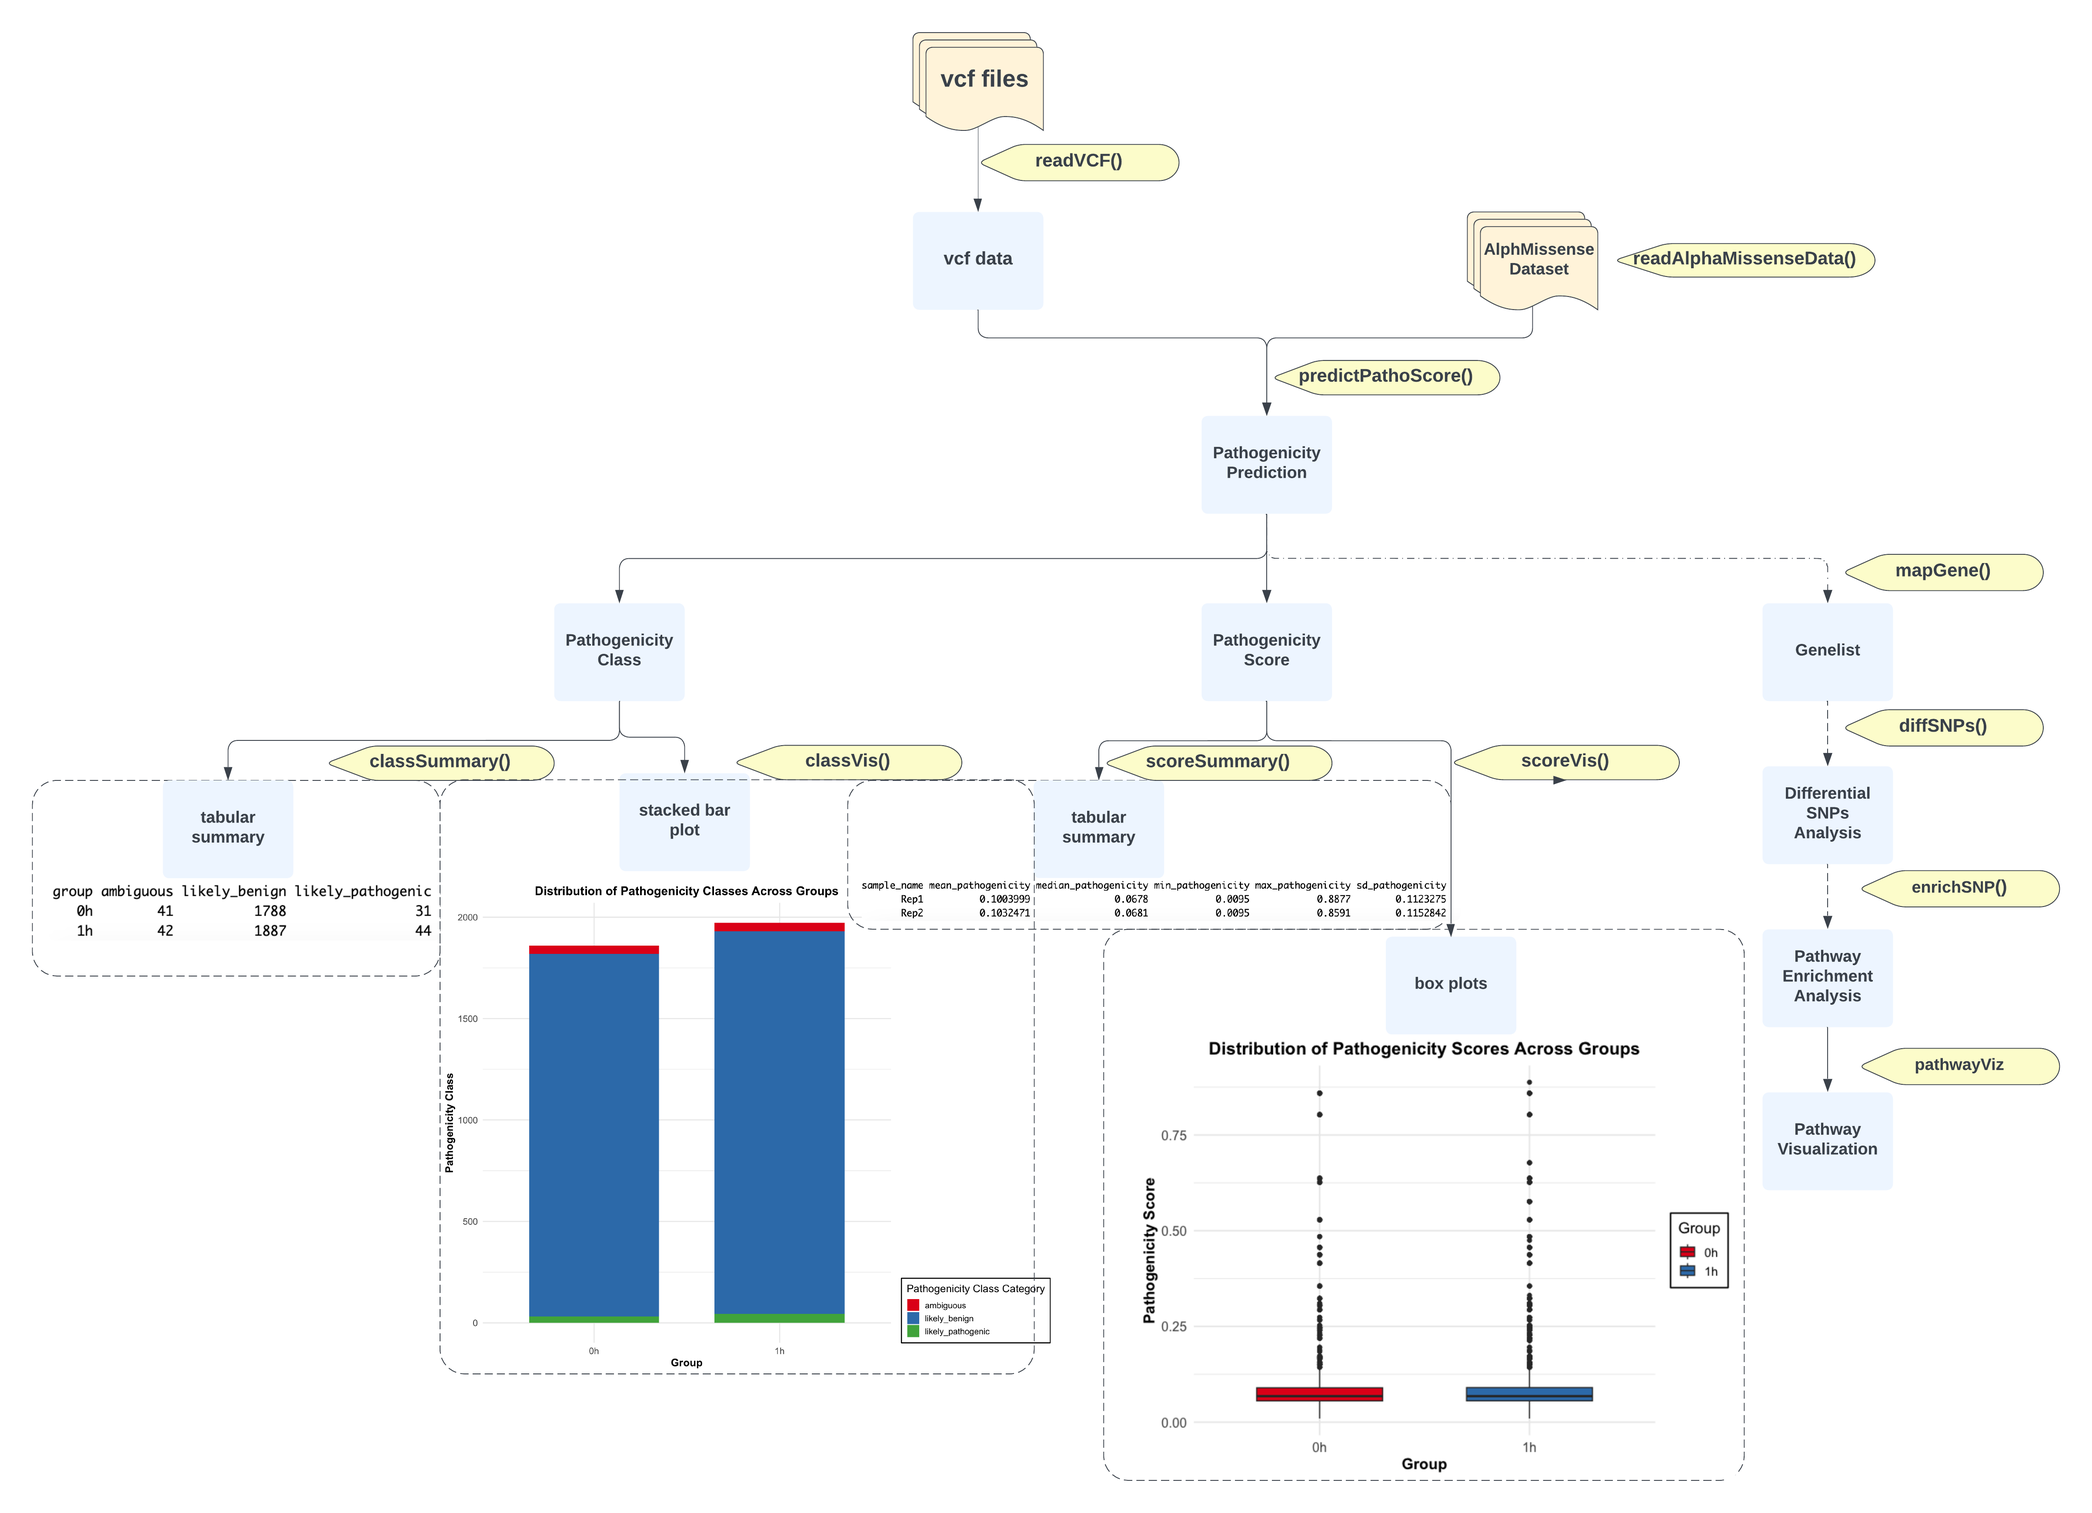
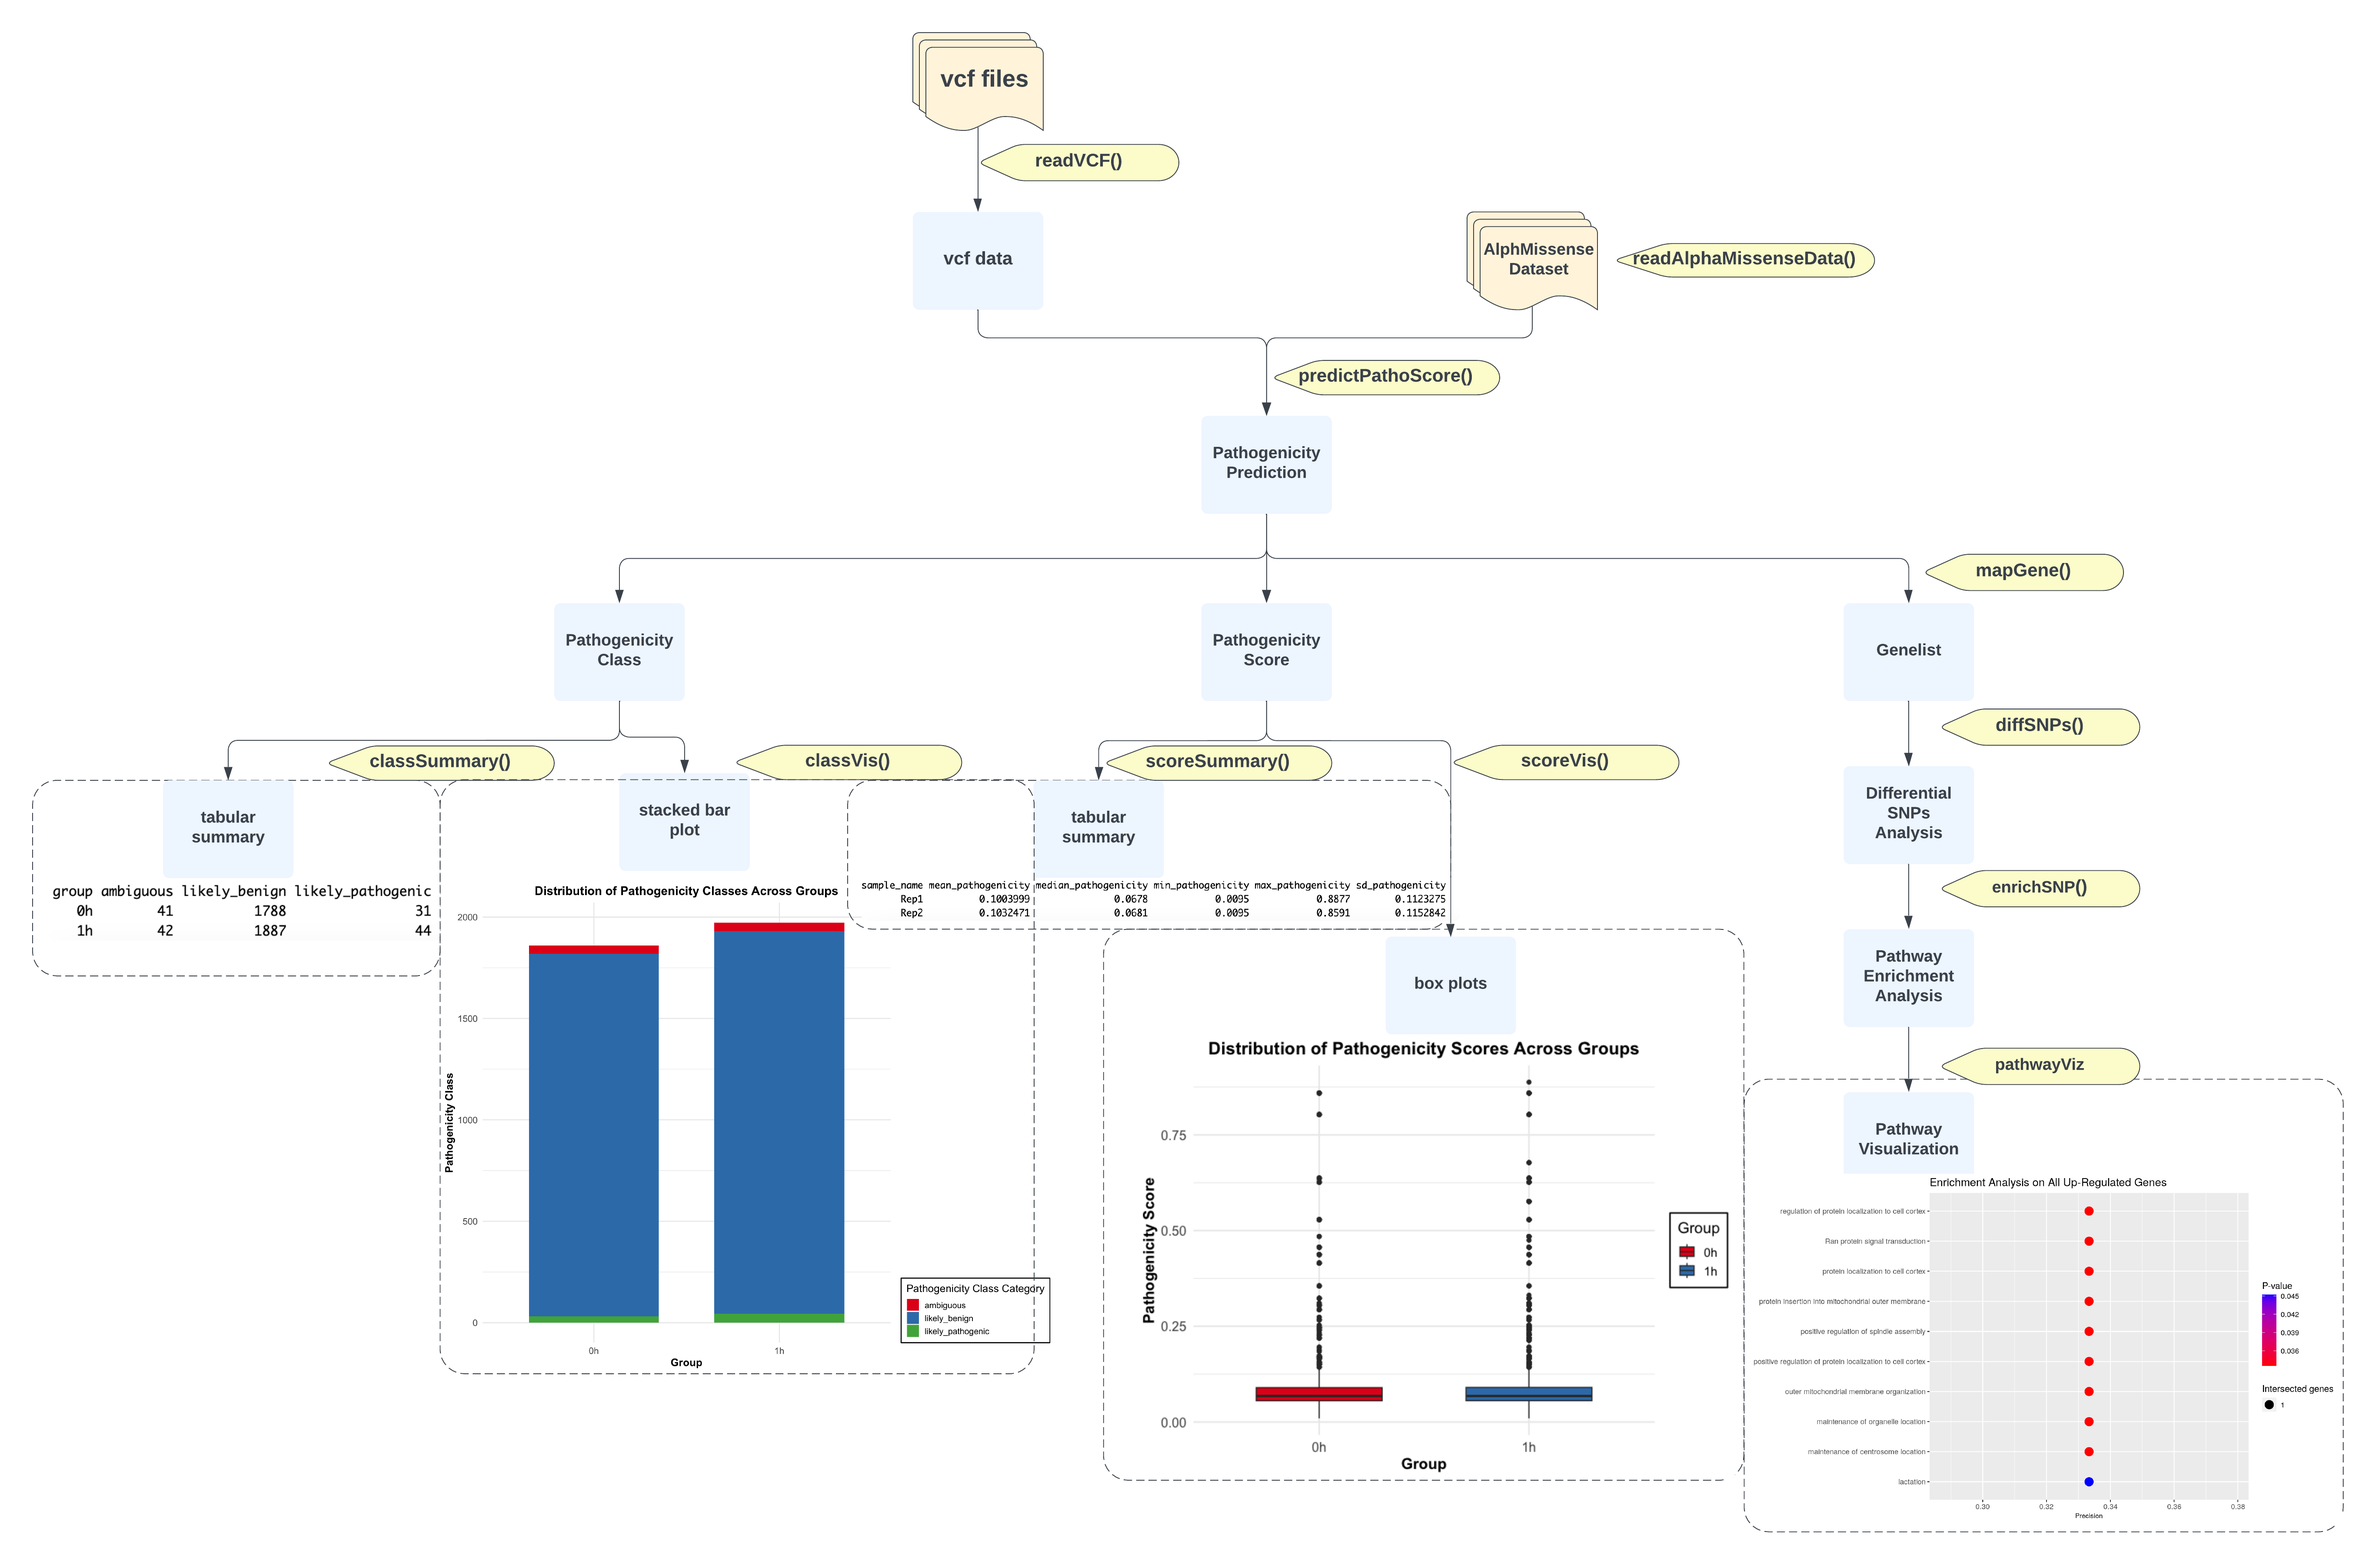
shiny app completed, final submission for A5

diff --git a/README.md b/README.md
@@ -52,7 +52,11 @@ devtools::install_github("Lola-W/MissensePathoR", build_vignettes = TRUE)
 library("MissensePathoR")
 ```
 
-Shiny app underconstruction.
+To run the Shiny app:
+
+``` r
+runMissensePathoR()
+```
 
 ## Overview
 
@@ -88,9 +92,8 @@ data(package = "MissensePathoR")
     the distribution of pathogenicity scores within and between groups.
     (See function `scoreViz`)
 
-7.  **Gene Mapping for Variants**: Annotates all variants to genes,
-    highlighting their location in and around genes. (See function
-    `mapGene`)
+7.  **Gene Mapping for Variants**: Annotates all variants to located
+    HGNC gene names. (See function `mapGene`)
 
 8.  **Differential SNPs Analysis**: Performs differential gene
     expression analysis between assigned groups, ranking genes based on
@@ -117,16 +120,21 @@ various functions is illustrated below:
 
 The MissensePathoR package is authored by Jiaming Weng. The author wrote
 all the functions. All the functions depend on `data.table` package for
-data saving and reading, all the visualization functions (`classViz` and
-`scoreViz`) are powered by package `ggplot2` for graph generating and
-`RColorBrewer` for coloring.`readVCF` used `read.vcfR` in `vcfR` package
-to read and process vcf files, `readAlphaMissenseData` make use of the
-publicly available AlphaMissense dataset provided by Google Deepmind.The
-dependencies of the underconstructing gene-level analyses and shiny app
-functionalities will be specified later. ChatGPT4 is used to provide
-insights for debug and documentation, and write error checking for all
-the functions, its contribution is cited in the comments of the code as
-`# contributed by ChatGPT-4`.
+data saving and reading and `dplyr` package for data manipulation, all
+the visualization functions (`classViz`, `scoreViz`, and `pathwayViz`)
+are powered by package `ggplot2` for graph generating and `RColorBrewer`
+for coloring.`readVCF` used `read.vcfR` in `vcfR` package to read and
+process vcf files, `readAlphaMissenseData` make use of the publicly
+available AlphaMissense dataset provided by Google Deepmind. `mapGene`
+leverages the `UniProt.ws` package for mapping AlphaMissense predicted
+UniProt IDs to HGNC gene names. `diffSNPs` integrates the `edgeR` to
+perform counts-per-million(CPM) on pseudo gene counts and
+Quasi-Likelihood Model. `gprofiler2` package is used for thresholded
+over-representation analysis. The dependencies of the underconstructing
+gene-level analyses and shiny app functionalities will be specified
+later. ChatGPT4 is used to provide insights for debug and documentation,
+and write error checking for all the functions, its contribution is
+cited in the comments of the code as `# contributed by ChatGPT-4`.
 
 For the data:
 
@@ -141,12 +149,17 @@ For the data:
 
 ## References
 
+- Carlson M, Ramos M (2022). *UniProt.ws: R Interface to UniProt Web
+  Services*. R package version 2.38.1.
 - Cheng, J., Novati, G., Pan, J., Bycroft, C., Žemgulytė, A., Applebaum,
   T., Pritzel, A., Wong, L. H., Zielinski, M., Sargeant, T.,
   Schneider, R. G., Senior, A. W., Jumper, J., Hassabis, D., Kohli, P.,
   & Avsec, Ž. (2023). Accurate proteome-wide missense variant effect
   prediction with AlphaMissense. Science, 381(6664), eadg7492.
   <https://doi.org/10.1126/science.adg7492>
+- Chen, Y., Lun, A. T., McCarthy, D. J., Ritchie, M. E., Phipson, B.,
+  Hu, Y., … & Smyth, G. K. (2015). edgeR: Empirical analysis of digital
+  gene expression data in R. Bioconductor Version: Release (3.12).
 - Danecek, P., Auton, A., Abecasis, G., Albers, C. A., Banks, E.,
   DePristo, M. A., Handsaker, R. E., Lunter, G., Marth, G. T.,
   Sherry, S. T., McVean, G., & Durbin, R. (2011). The variant call
@@ -164,12 +177,20 @@ For the data:
   Miller, J. A. (2023). Interindividual variation in human cortical cell
   type abundance and expression. Science, 382(6667), eadf2359.
   <https://doi.org/10.1126/science.adf2359>
+- Kolberg L, Raudvere U, Kuzmin I, Vilo J, Peterson H (2020).
+  “gprofiler2- an R package for gene list functional enrichment analysis
+  and namespace conversion toolset g:Profiler.” *F1000Research*, *9
+  (ELIXIR)*(709). R package version 0.2.1.
 - Knaus BJ, Grünwald NJ (2017). “VCFR: a package to manipulate and
   visualize variant call format data in R.” *Molecular Ecology
   Resources*, *17*(1), 44-53. ISSN 757,
   <https://dx.doi.org/10.1111/1755-0998.12549>.
 - Neuwirth E (2022). *RColorBrewer: ColorBrewer Palettes*. R package
   version 1.1-3, <https://CRAN.R-project.org/package=RColorBrewer>.
+- Raudvere, Uku, Liis Kolberg, Ivan Kuzmin, Tambet Arak, Priit Adler,
+  Hedi Peterson, and Jaak Vilo. 2019. “G: Profiler: A Web Server for
+  Functional Enrichment Analysis and Conversions of Gene Lists (2019
+  Update).” Nucleic Acids Research 47 (W1): W191–98.
 - St»hle, L., & Wold, S. (1989). Analysis of variance (ANOVA).
   Chemometrics and Intelligent Laboratory Systems, 6(4), 259–272.
   <https://doi.org/10.1016/0169-7439(89)80095-4> Wang, K., Li, M., &
